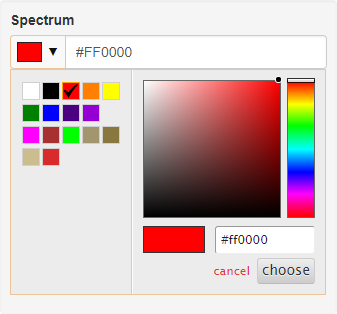
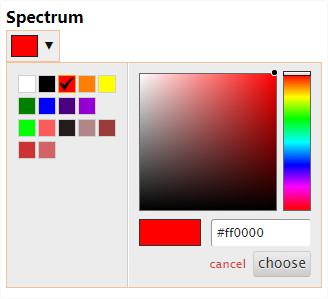
update spectrum-editor

Changed region(s): [[0.0, 0.0301, 1.0, 0.9632]]

diff --git a/plugin/spectrum-editor/bootstrap3/spectrum-editor.js b/plugin/spectrum-editor/bootstrap3/spectrum-editor.js
@@ -25,7 +25,14 @@ License: MIT
       this._super();
 
       var self = this;
-      
+
+      this.input.type = 'text';
+      this.input.classList.add( 'sp-je-input' );
+
+      if( this.label ){
+        this.label.classList.add( 'sp-je-label' );
+      }
+
       var spectrumOptions = {
         preferredFormat: "hex",
         color: this.value
@@ -33,14 +40,17 @@ License: MIT
       $.extend(true, spectrumOptions, JSONEditor.defaults.spectrum, this.schema.spectrum);
       spectrumOptions._change = spectrumOptions.change;
       spectrumOptions.change =  function( color ) {
-        self.refreshValue();
+        self.setValue( color.toHexString() );
         self.onChange(true);
         if( typeof spectrumOptions._change === 'function' ){
           spectrumOptions._change.call( this, color );
         }
       };
 
-      this.spectrumInput = $( this.input ).spectrum( spectrumOptions );
+      this.spectrumInput = $( '<input>' );
+      this.spectrumInput.insertAfter( this.input )
+      this.spectrumInput.spectrum( spectrumOptions );
+
       this.spectrumReplacer = this.spectrumInput.siblings( '.sp-replacer' );
 
     },
@@ -78,6 +88,21 @@ License: MIT
       this.spectrumInput.spectrum( 'hide' );
     }
 
+  });
+
+  // color validator
+  JSONEditor.defaults.custom_validators.push( function( schema, value, path ) {
+    var errors = [];
+    if( schema.format === "spectrum" ) {
+      if( !/^#([0-9a-fA-F]{6}|[0-9a-fA-F]{3})$/.test(value) ) {
+        errors.push({
+          path: path,
+          property: 'format',
+          message: 'Color must be #xxx or #xxxxxx'
+        });
+      }
+    }
+    return errors;
   });
 
 })();

diff --git a/plugin/spectrum-editor/bootstrap3/demo.html b/plugin/spectrum-editor/bootstrap3/demo.html
@@ -4,7 +4,9 @@
   <meta charset="utf-8" />
   <title>spectrum-editor demo</title>
   <!-- jsoneditor js -->
-  <script src='../../jsoneditor.min.js'></script>
+  <script src='../../../jsoneditor.min.js'></script>
+  <!-- bootstrap css -->
+  <link rel="stylesheet" type="text/css" href="https://netdna.bootstrapcdn.com/bootstrap/3.0.3/css/bootstrap.min.css">
   <!-- jQuery js -->
   <script src="https://code.jquery.com/jquery-2.2.4.min.js"></script>
   <!-- spectrum js & css -->
@@ -12,7 +14,7 @@
   <link rel="stylesheet" type="text/css" href="https://cdnjs.cloudflare.com/ajax/libs/spectrum/1.8.0/spectrum.min.css">
   <!-- spectrum-editor js & css -->
   <script src='spectrum-editor.js'></script>
-  <link rel="stylesheet" type="text/css" href="spectrum-editor.css">
+  <link rel="stylesheet" type="text/css" href="spectrum-editor-bootstrap3.css">
 </head>
 <body>
   <div id="editor_holder" style="margin: 10px;"></div>
@@ -28,6 +30,8 @@
 
     var element = document.getElementById('editor_holder');
     var editor = new JSONEditor( element, {
+      theme: 'bootstrap3',
+      iconlib: 'bootstrap3',
       schema: {
         type: 'object',
         properties: {

diff --git a/plugin/spectrum-editor/spectrum-editor.css b/plugin/spectrum-editor/spectrum-editor.css
@@ -4,31 +4,9 @@ https://github.com/hellobugme/json-editor.zh-CN
 Author: Kainan Hong
 License: MIT
 ***/
-.sp-je-input {
-    padding-left: 65px;
-}
-.sp-je-label {
-    display: block;
-}
 .sp-je-disabled {
     opacity: .6;
     pointer-events: none;
-}
-.sp-replacer {
-    position: absolute;
-    margin-top: -33px;
-    margin-left: 1px;
-    border: none;
-    border-right: 1px solid #ccc;
-    border-top-left-radius: 4px;
-    border-bottom-left-radius: 4px;
-    padding: 6px;
-}
-.sp-replacer:hover, .sp-replacer.sp-active {
-    border: 1px solid #F0C49B;
-    margin-top: -34px;
-    margin-left: 0;
-    background-color: #f9f9f9;
 }
 .sp-input {
     background-color: white;
@@ -36,3 +14,8 @@ License: MIT
 .sp-palette {
     max-width: 100px;
 }
+/*.sp-replacer {
+    border-color: #ccc;
+    border-radius: 4px;
+    padding: 5px;
+}*/

diff --git a/plugin/spectrum-editor/bootstrap3/spectrum-editor-bootstrap3.css b/plugin/spectrum-editor/bootstrap3/spectrum-editor-bootstrap3.css
@@ -1,0 +1,38 @@
+/***
+Spectrum Editor for JSON Editor
+https://github.com/hellobugme/json-editor.zh-CN
+Author: Kainan Hong
+License: MIT
+***/
+.sp-je-input {
+    padding-left: 65px;
+}
+.sp-je-label {
+    display: block;
+}
+.sp-je-disabled {
+    opacity: .6;
+    pointer-events: none;
+}
+.sp-replacer {
+    position: absolute;
+    margin-top: -33px;
+    margin-left: 1px;
+    border: none;
+    border-right: 1px solid #ccc;
+    border-top-left-radius: 4px;
+    border-bottom-left-radius: 4px;
+    padding: 6px;
+}
+.sp-replacer:hover, .sp-replacer.sp-active {
+    border: 1px solid #F0C49B;
+    margin-top: -34px;
+    margin-left: 0;
+    background-color: #f9f9f9;
+}
+.sp-input {
+    background-color: white;
+}
+.sp-palette {
+    max-width: 100px;
+}

diff --git a/plugin/spectrum-editor/bootstrap3/README.md b/plugin/spectrum-editor/bootstrap3/README.md
@@ -1,0 +1,4 @@
+Spectrum Editor for JSON Editor
+===========
+
+![spectrum-editor](https://raw.github.com/hellobugme/json-editor.zh-CN/master/plugin/spectrum-editor/bootstrap3/spectrum-editor-bootstrap3.png)
